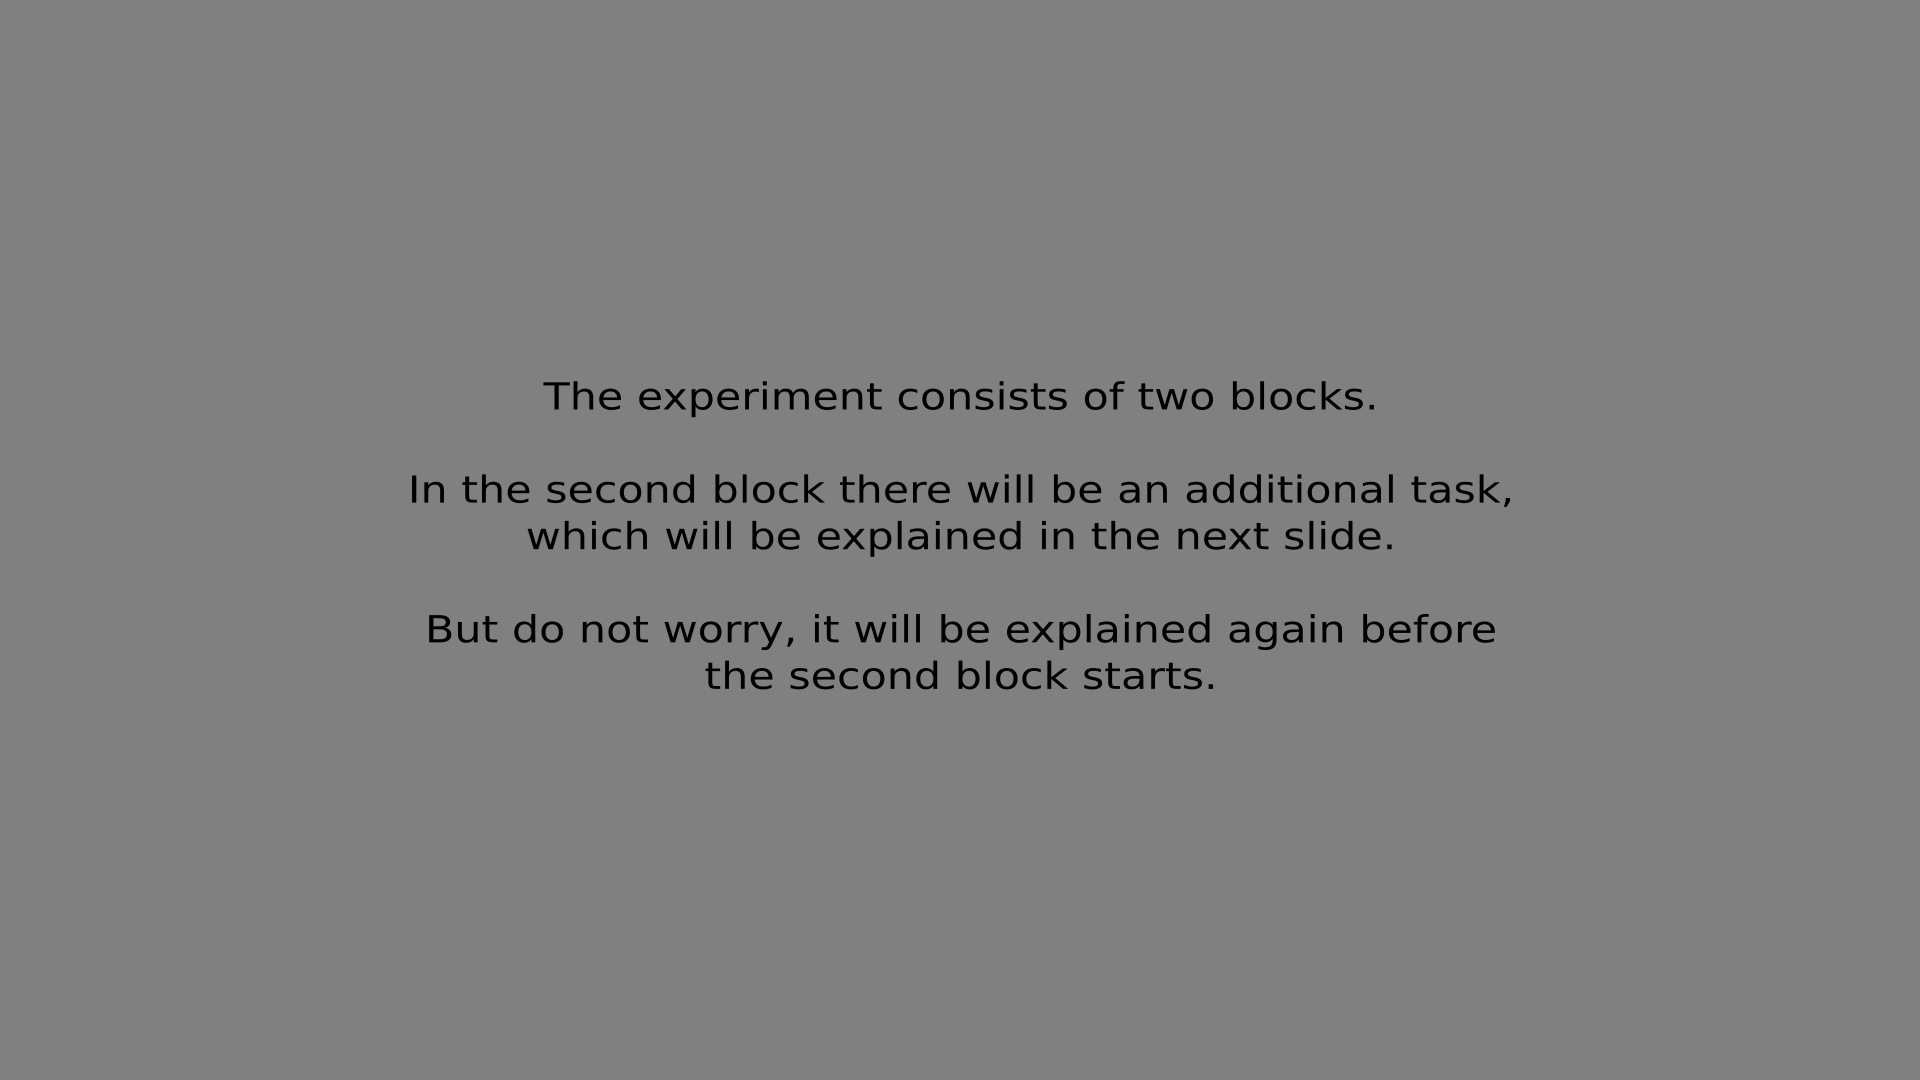
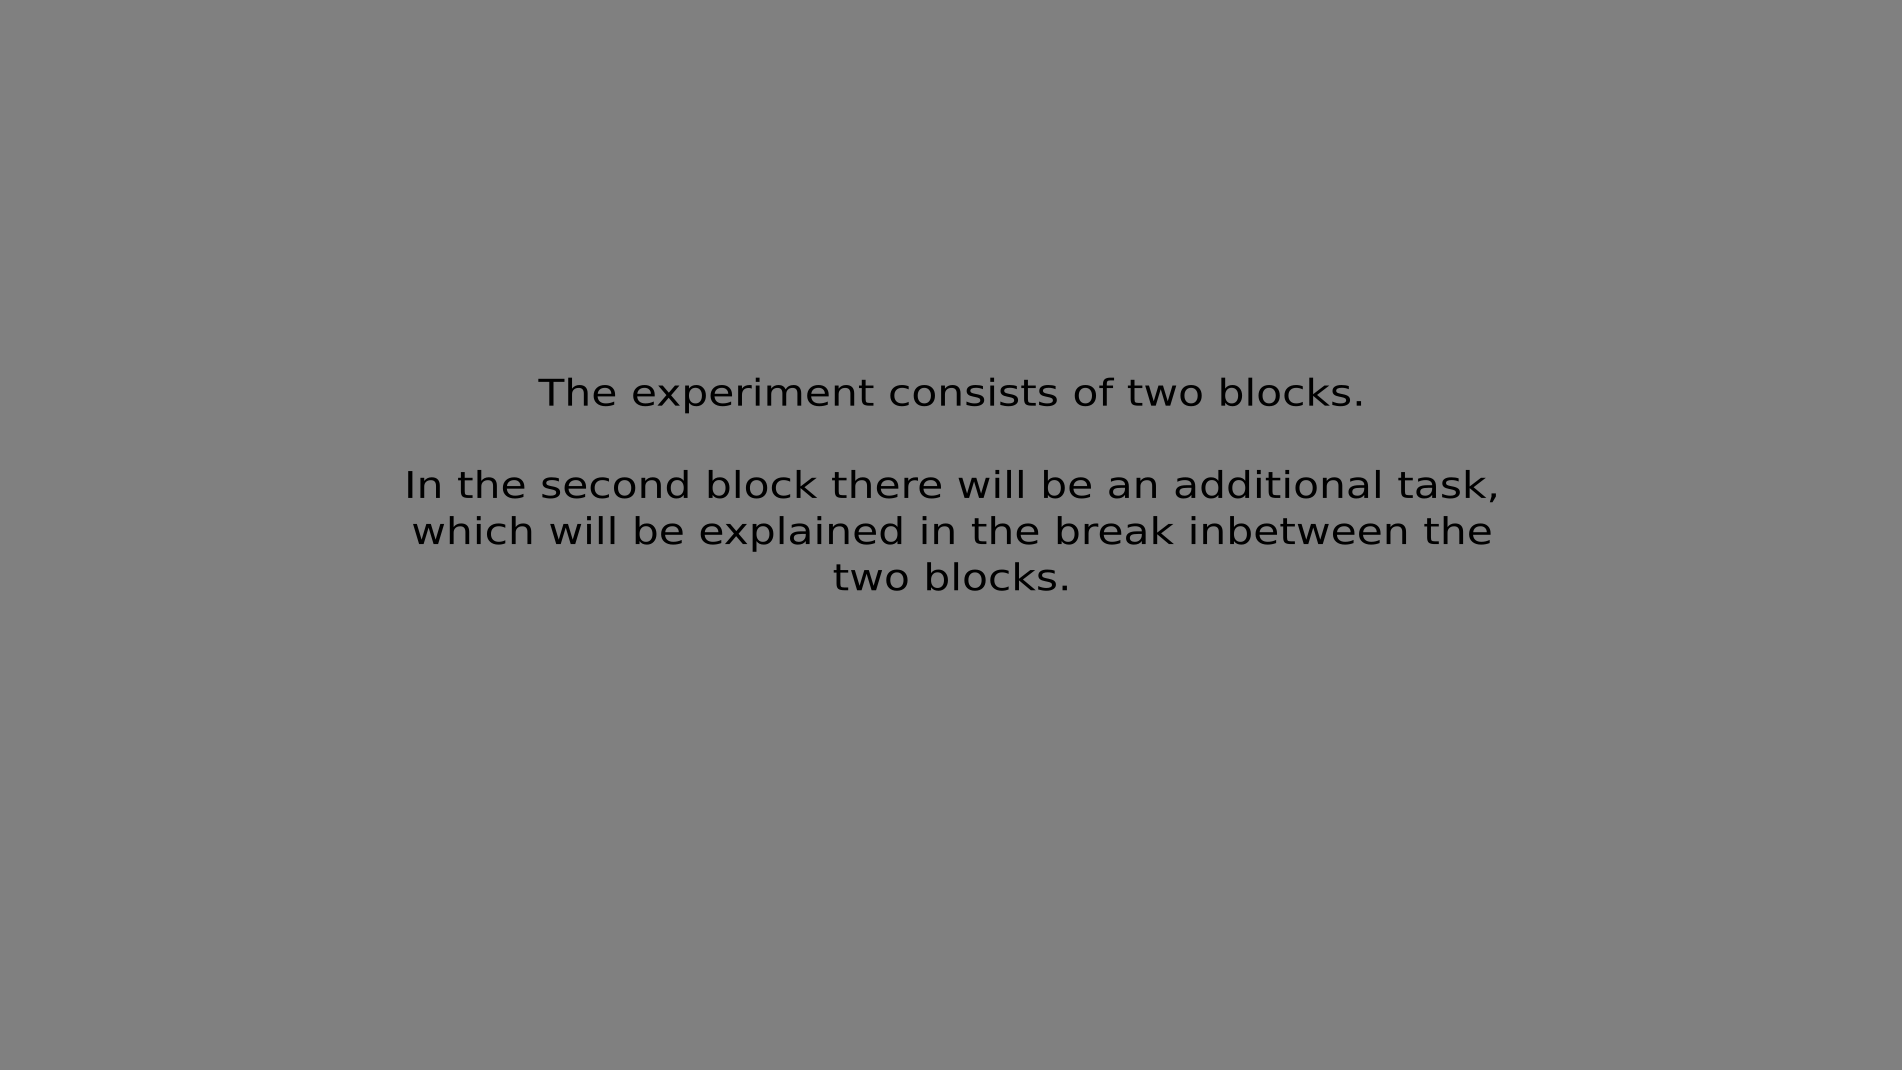
New triggers and training blockwise with new instructions

Changed region(s): [[0.2171, 0.4626, 0.7755, 0.6477]]

diff --git a/experiment/experiment2/experiment_j.py b/experiment/experiment2/experiment_j.py
@@ -22,9 +22,9 @@ path_to_fixdur_files, path_to_fixdur_code = tools.paths()
 NUM_OF_TRIALS = 5
 TRIAL_TIME = 6000   #how long sould the bubbles in theory be displayed per trial for randomization
 
-START_TRIAL = 0    #which trial to begin with   
-fullscreen = True  
-EYETRACKING = True
+START_TRIAL = 1    #which trial to begin with   
+fullscreen = False 
+EYETRACKING = False
 
 
 if EYETRACKING == False:
@@ -114,7 +114,8 @@ gausStim = tools_ex.create_mask_fast([(0,0)],surf)
 
 #training trials
 if START_TRIAL == 0:
-    trial.training(surf,tracker,memory_image,fix_cross,stimList_preload,gausStim,EYETRACKING)
+    tools.slideshow(surf, np.sort(glob.glob(path_to_fixdur_code+'images/instructions/training_block1.png')))
+    trial.training(surf,tracker,memory_image,fix_cross,stimList_preload,gausStim,EYETRACKING,control=1)
  
 tools.slideshow(surf, np.sort(glob.glob(path_to_fixdur_code+'images/instructions/pre_start.png')))
 
@@ -123,7 +124,7 @@ fix_cross.draw(surf)
 surf.flip()
 
 
-trial_num = 1
+trial_num = 31
 trial_list = []
 
 
@@ -148,8 +149,8 @@ for new_image in all_images:
 #logging.console.setLevel(logging.WARNING)
 
 # run the game loop
-for img_num in range(NUM_OF_TRIALS-START_TRIAL):
-#for img_num in range(28,38):
+#for img_num in range(NUM_OF_TRIALS-START_TRIAL):
+for img_num in range(38,48):
     #print chosen_image
     try:
     
@@ -179,8 +180,17 @@ for img_num in range(NUM_OF_TRIALS-START_TRIAL):
             
         # Break with instructions in between the first and the second block
         elif trial_num == 33:
+            
+            # instructions for second block
+            tools.slideshow(surf, np.sort(glob.glob(path_to_fixdur_code+'images/instructions/finish_block1.png')))
             tools.slideshow(surf, np.sort(glob.glob(path_to_fixdur_code+'images/instructions/memory1.png')))
+            tools.slideshow(surf, np.sort(glob.glob(path_to_fixdur_code+'images/instructions/training_block2.png')))
+            
+            # training trials for second block            
+            trial.training(surf,tracker,memory_image,fix_cross,stimList_preload,gausStim,EYETRACKING,control=0)
             tools.slideshow(surf, np.sort(glob.glob(path_to_fixdur_code+'images/instructions/pre_start2.png')))
+            
+            # show circle
             circ = visual.Circle(surf, units='pix', radius=10)
             circ.draw(surf)
         else:
@@ -289,8 +299,13 @@ for img_num in range(NUM_OF_TRIALS-START_TRIAL):
             
             # if control condition is applied
             if control == 1 and subtrial_num != 1:
-                # create white bubble
+                # flip to foveated "old" bubble
                 surf.flip()
+                
+                foveated_prev_start = core.getTime()
+                if EYETRACKING == True:                
+                    tracker.trialmetadata("foveated_prev_onset", foveated_prev_start)
+                
                 tools.debug_time("4.[white] foveated displayed",start)
                 start = core.getTime()
                 
@@ -323,8 +338,13 @@ for img_num in range(NUM_OF_TRIALS-START_TRIAL):
                     curr_display_time = core.getTime() - bubble_display_start
                 start = start+200/1000.
                 
+
                 surf.flip() #flip to white stimulus
-                display_start = core.getTime()
+                white_display_start = core.getTime()
+                if EYETRACKING == True:                
+                    tracker.trialmetadata("white_onset", white_display_start)
+                    
+                #display_start = core.getTime()
 
                 tools.debug_time("[white] white displayed",start)
                 start = core.getTime()
@@ -337,7 +357,7 @@ for img_num in range(NUM_OF_TRIALS-START_TRIAL):
                 curr_display_time = 0
                 while curr_display_time < white_disp/1000:
                     core.wait(0.001)                    
-                    curr_display_time = core.getTime() - display_start
+                    curr_display_time = core.getTime() - white_display_start
                 start = start + white_disp/1000.
                 
                 #tools.debug_time("new image set",start)
@@ -449,7 +469,7 @@ for img_num in range(NUM_OF_TRIALS-START_TRIAL):
         
             #metainfos for dictionary
             #subtrial_dict = {'trial': trial_num, 'img': bubble_image, 'disp_bubbles': used_locations, 'first_bubble':first_bubble, 'chosen_bubble': chosen_location, 'planned_disp_time': disp_time, 'stim_onset': stimulus_onset, 'saccade_offset': saccade_offset, 'forced_fix_onset': bubble_display_start}
-            subtrial_dict = {'trial': trial_num, 'img': bubble_image,'num_bubbles': num_of_bubbles,'whole_image_condition': whole_image, 'control_condition': control, 'disp_bubbles': used_locations, 'first_bubble':first_bubble, 'chosen_bubble': chosen_location, 'planned_disp_time': disp_time, 'stim_onset': stimulus_onset, 'saccade_offset': saccade_offset, 'forced_fix_onset': bubble_display_start}                
+            subtrial_dict = {'trial': trial_num, 'img': bubble_image,'num_bubbles': num_of_bubbles,'whole_image_condition': whole_image, 'control_condition': control, 'disp_bubbles': used_locations, 'first_bubble':first_bubble, 'chosen_bubble': chosen_location, 'planned_disp_time': disp_time, 'stim_onset': stimulus_onset, 'saccade_offset': saccade_offset, 'forced_fix_onset': bubble_display_start,'white_onset': white_display_start, 'foveated_prev_onset': foveated_prev_start}                
             subtrial_list.append(subtrial_dict)  
             
             subtrial_num = subtrial_num + 1

diff --git a/experiment/experiment2/trial.py b/experiment/experiment2/trial.py
@@ -32,11 +32,11 @@ path_to_fixdur_files, path_to_fixdur_code = tools.paths()
 
 
 ''' display training trials'''    
-def training(surf,tracker,memory_image,fix_cross,stimuli,gausStim,EYETRACKING):
+def training(surf,tracker,memory_image,fix_cross,stimuli,gausStim,EYETRACKING,control):
     
     #training parameter
     #training_bubble_num = [0,2,4,8,16] # number of bubbles for training
-    num_trials = 4 # number of trials for training
+    num_trials = 2 # number of trials for training
     num_subtrials = 20 # number of subtrials per trial
     image_size = (1280,960)
     
@@ -50,8 +50,8 @@ def training(surf,tracker,memory_image,fix_cross,stimuli,gausStim,EYETRACKING):
     stimWhite = visual.ImageStim(surf, image=white_image, units='pix')
     
     # create control_list such that in half of the cases control condition is applied
-    control_list = np.ones(num_trials)
-    control_list[len(control_list)/2:] = 0
+    #control_list = np.ones(num_trials)
+    #control_list[len(control_list)/2:] = 0
     
     # random order of trials with and without control condition
     #np.random.shuffle(control_list)
@@ -60,7 +60,7 @@ def training(surf,tracker,memory_image,fix_cross,stimuli,gausStim,EYETRACKING):
     for num,current_key in enumerate(training_stimuli_keys):
         
         # save in a variable if control condition is applied in this trial or not        
-        control = control_list[num]        
+        #control = control_list[num]        
         
         # save the name of the current image in a variable
         bubble_image = current_key
